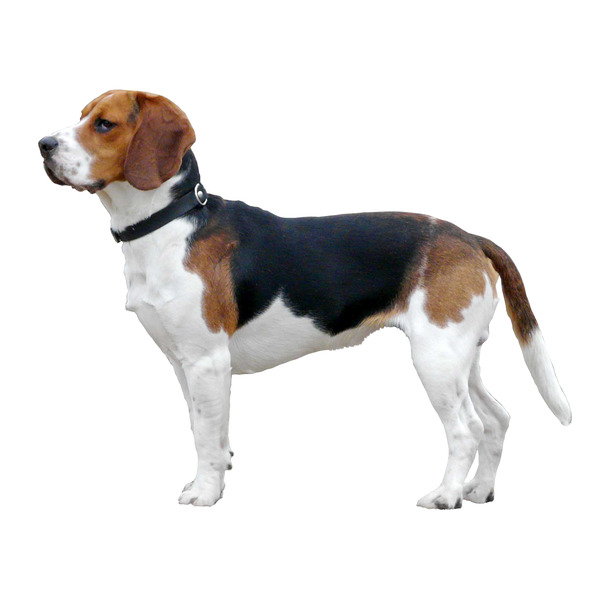
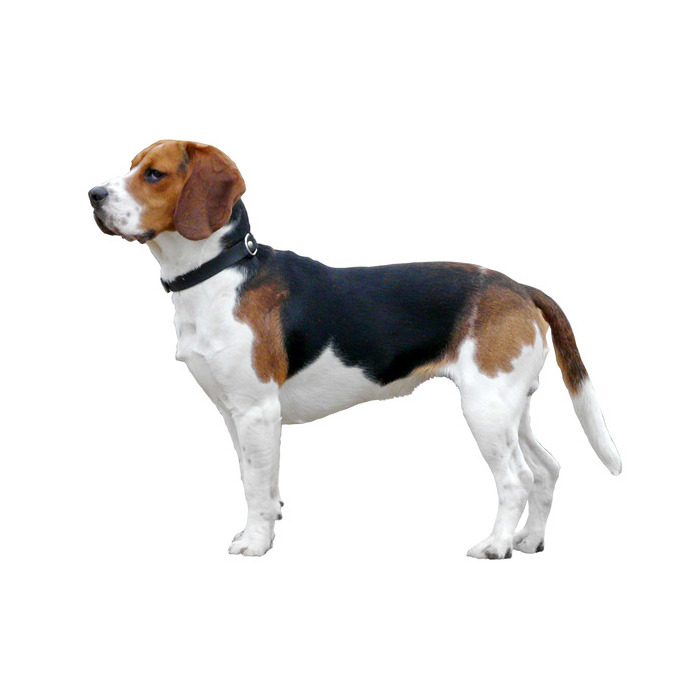
update images and spacing

Changed region(s): [[0.06, 0.15, 0.96, 0.87], [0.45, 0.48, 0.48, 0.51]]

diff --git a/lwl_experiment_demo/index.html b/lwl_experiment_demo/index.html
@@ -26,7 +26,7 @@
 
 //Enter subject id
 //var subject_id = prompt("Enter subject id", "test");
-var subject_id = test;
+var subject_id = "test";
 
 //var trial_order = prompt("Order (1-8)","1");
 var trial_order = "1";
@@ -75,22 +75,30 @@ function createTrials(data, tabletop) {
 
   timeline.push(welcome);
 
-  timeline.push(instructions);
-
   var expLength = data.length;
   var audioExt="stimuli/sounds/"
   var imageStart='<img src= "stimuli/images/'
-  var imageStop= '.jpg"  title = "" width="300" height="250">'
+  var imageStop= '_600x600.jpg"  title = "" width="400" height="400">'
 
 
   lwl_stimuli = []
 
   for (var i = 0; i < expLength; i++) {
     lwl_stimuli.push(
-    {stimulus: audioExt+data[i]['stimulus']+".wav",
+    {stimulus: audioExt+data[i]['auditory_stimulus']+".wav",
     choices:[imageStart+data[i]['left_image']+imageStop, imageStart+data[i]['right_image']+imageStop],
     set_background:data[i]['background'],
-    data:{condition:data[i]['condition'],target_side:data[i]['target_side'],correct_response:data[i]['correct_response'],background:data[i]['background']}
+    data:{
+		left_typicality: data[i]['left_typicality'],
+		left_category: data[i]['left_category'],
+		left_image: data[i]['left_image'],
+		right_typicality: data[i]['left_typicality'],
+		right_category: data[i]['left_category'],
+		right_image: data[i]['right_image'],
+		target_label: data[i]['target_label'],
+		target_side:data[i]['target_side'],
+		correct_response:data[i]['correct_response'],
+		background:data[i]['background']}
     })
   }
 
@@ -99,12 +107,15 @@ function createTrials(data, tabletop) {
     type: 'audio-button-response-flexiblelocations',
     margin_top: ['300px','300px'],
     margin_bottom: ['0px','0px'],
-    margin_left: ['0px','89px'],
+    margin_left: ['0px','200px'],
     margin_right: ['89px','0px'],
     // set_background: 'face-closed',
     // set_background:data.background,
     timeline: lwl_stimuli,
+	  response_possible: false,
     data: jsPsych.timelineVariable('data'),
+	  response_ends_trial: false,
+	  trial_duration: 5500,
     on_finish: function(data) {
       data.correct = data.button_pressed == data.correct_response;
     }
@@ -122,54 +133,78 @@ function createTrials(data, tabletop) {
 
 var imageExt = 'stimuli/images/'
 
-var images = [imageExt+'Apple.jpg',
-imageExt+'Ball.jpg',
-imageExt+'Ball2.jpg',
-imageExt+'Bear.jpg',
-imageExt+'Bear2.jpg',
-imageExt+'Bib.jpg',
-imageExt+'black.jpg',
-imageExt+'Blocks.jpg',
-imageExt+'blue.png',
-imageExt+'Boat.jpg',
-imageExt+'bunnies.gif',
-imageExt+'Cake.jpg',
-imageExt+'Cake2.jpg',
-imageExt+'Carrots.jpg',
-imageExt+'Cheese.jpg',
-imageExt+'Cheese2.jpg',
-imageExt+'Comb.jpg',
-imageExt+'Cookie.jpg',
-imageExt+'Cookie2.jpg',
-imageExt+'Corn.jpg',
-imageExt+'Doll.jpg',
-imageExt+'Donut.jpg',
-imageExt+'Duck.jpg',
-imageExt+'Duck2.jpg',
-imageExt+'face-closed.jpg',
-imageExt+'face-open.jpg',
-imageExt+'fireworks_left.jpg',
-imageExt+'fireworks_right.jpg',
-imageExt+'Grapes.jpg',
-imageExt+'Hammer.jpg',
-imageExt+'kitchen.jpg',
-imageExt+'Novel1.jpg',
-imageExt+'Novel2.jpg',
-imageExt+'Novel3.jpg',
-imageExt+'Novel4.jpg',
-imageExt+'playroom.jpg',
-imageExt+'Puzzle.jpg',
-imageExt+'Truck.jpg',
-imageExt+'Truck2.jpg',
-imageExt+'Zipper.jpg'];
+
+var images = [
+"afghanhound_600x600.jpg",
+"balloons left.jpg",
+"balloons right.jpg",
+"bassethound_600x600.jpg",
+"beach left.jpg",
+"beach right.jpg",
+"beagle_600x600.jpg",
+"betafish_600x600.jpg",
+"black-background.jpg",
+"black.jpg",
+"bluegill_600x600.jpg",
+"cedarwaxwing_600x600.jpg",
+"cornishrex_600x600.jpg",
+"fireworks_left.jpg",
+"fireworks_right.jpg",
+"germanshepherd_600x600.jpg",
+"kingfisher_600x600.jpg",
+"kookaburra_600x600.jpg",
+"lionfish_600x600.jpg",
+"mountain left.jpg",
+"mountain right.jpg",
+"ocean left.jpg",
+"ocean right.jpg",
+"oriental_600x600.jpg",
+"sergeantmajor_600x600.jpg",
+"shorthair_calico_600x600.jpg",
+"sparrow_600x600.jpg",
+"tabby_600x600.jpg"
+]
+
+var preload_images=[];
+
+for (var k = 0; k < images.length; k++) {
+	preload_images.push(imageExt+images[k]);
+};
+
+var audio = [
+	"where_1_silence_the_fish_4.wav",
+	"where_1_silence_the_cat_1.wav",
+	"where_1_silence_the_dog_1.wav",
+	"see_1_silence_the_dog_see_1.wav",
+	"see_1_silence_the_fish_see_2.wav",
+	"where_1_silence_the_bird_1.wav",
+	"see_1_silence_the_bird_see_1.wav",
+	"see_1_silence_the_cat_see_3.wav",
+	"look_1_silence_the_cat_1.wav",
+	"look_1_silence_the_dog_1.wav",
+	"look_1_silence_the_fish_4.wav",
+	"find_1_silence_the_fish_4.wav",
+	"look_1_silence_the_bird_1.wav",
+	"find_1_silence_the_cat_1.wav",
+	"find_1_silence_the_dog_1.wav",
+	"find_1_silence_the_bird_1.wav",
+	"done.wav"
+];
+
+var preload_audio  = [];
+
+for (var l = 0; l < preload_audio.length; l++) {
+	preload_audio.push(imageExt+audio[l]);
+};
 
 
 function startExperiment(data, tabletop) {
 	createTrials(data,tabletop);
 jsPsych.init({
   timeline: timeline,
-  // preload_audio:audio,
-  preload_images:images,
+  preload_audio:preload_audio,
+  preload_images:preload_images,
+	default_iti: 300,
   on_finish: function() {
     //jsPsych.data.displayData();
     // save_data('lwl_typ_demo','V1',subject_id, jsPsych.data.dataAsCSV());

diff --git a/lwl_experiment_demo/jspsych-6.1.0/plugins/jspsych-audio-button-response-flexiblelocations.js b/lwl_experiment_demo/jspsych-6.1.0/plugins/jspsych-audio-button-response-flexiblelocations.js
@@ -73,7 +73,6 @@ jsPsych.plugins["audio-button-response-flexiblelocations"] = (function() {
         default: '8px',
         description: 'Left margin of button.'
       },
-      // ron
       set_background: {
         type: jsPsych.plugins.parameterType.STRING,
         pretty_name: 'Assign background image',
@@ -86,6 +85,12 @@ jsPsych.plugins["audio-button-response-flexiblelocations"] = (function() {
         default: true,
         description: 'If true, the trial will end when user makes a response.'
       },
+	  response_possible: {
+        type: jsPsych.plugins.parameterType.BOOL,
+        pretty_name: 'Whether a choice response is possible',
+        default: true,
+        description: 'If true, then the user can make responses.'
+	  },
       trial_ends_after_audio: {
         type: jsPsych.plugins.parameterType.BOOL,
         pretty_name: 'Trial ends after audio',
@@ -153,10 +158,14 @@ jsPsych.plugins["audio-button-response-flexiblelocations"] = (function() {
 		display_element.innerHTML = html;
 
 		for (var i = 0; i < trial.choices.length; i++) {
+		  
+  		  if (trial.response_possible) {
       display_element.querySelector('#jspsych-audio-button-response-button-' + i).addEventListener('click', function(e){
-        var choice = e.currentTarget.getAttribute('data-choice'); // don't use dataset for jsdom compatibility
-        after_response(choice);
+		  
+			  var choice = e.currentTarget.getAttribute('data-choice'); // don't use dataset for jsdom compatibility
+	          after_response(choice);
       });
+  };
     }
 
     // store response
